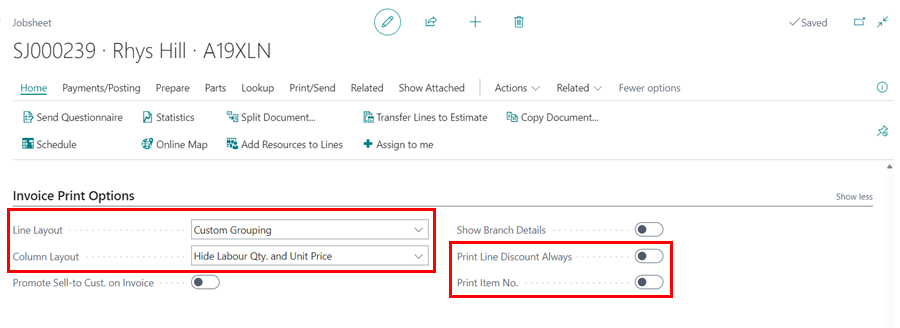
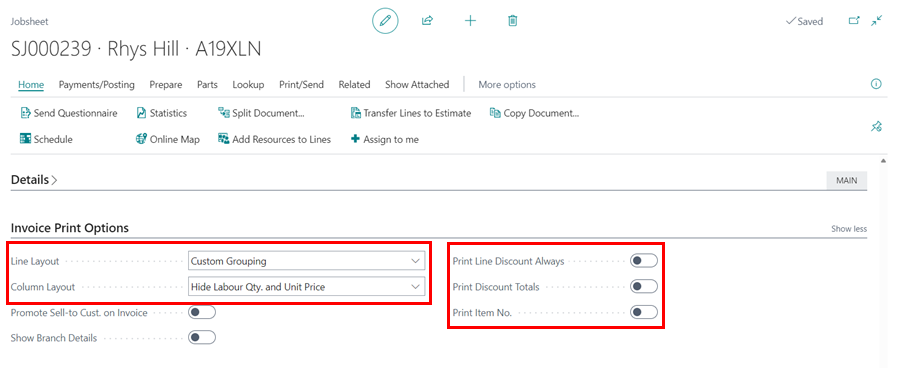
print layout options

diff --git a/docs/golive-print-invoice.md b/docs/golive-print-invoice.md
@@ -5,7 +5,7 @@ title: Go Live setup - Print Invoice (3/3)
 
 ## In this article
 1. [Print an Invoice](#print-an-invoice)
-2. [Available Line Layout Options](#line-layout-options)
+2. [Available Print Layout Options](#print-layout-options)
 
 
 ### Print an Invoice   
@@ -24,8 +24,8 @@ To print an invoice:
 
 4. Check the document for your company's logo, quality, and line layout. 
 
-### Line Layout Options
-There are 9 line layout options for the document to choose from:
+### Print Layout Options
+There are several middle section print layout options for the document to choose from:
 * Standard - Standard 
 * Standard - Hide labour Qty. and Unit Price 
 * Standard - Show Totals Only 
@@ -35,12 +35,15 @@ There are 9 line layout options for the document to choose from:
 * Custom Grouping - Standard 
 * Custom Grouping - Hide labour Qty. and Unit Price 
 * Custom Grouping - Show Totals Only
+* Print Line Discount Always
+* Print Discount Totals
+* Print Item No.
 
-To select your preferred line layout, scroll down to the **Invoice Print Options** FastTab in the document. Select the **Line Layout** and **Column Layout** options.
+To select your preferred print layout, scroll down to the **Invoice Print Options** FastTab in the document.
 
    ![](media/garagehive-go-live-print-invoice2.png)
 
-Here is an example of each **Line Layout**:
+Here is an example of each print layout:
 
 #### Standard - Standard
 
@@ -77,6 +80,18 @@ Here is an example of each **Line Layout**:
 #### Custom Grouping - Show Totals Only
 
 ![](media/garagehive-printlayout-custtotalsonly.png)
+
+#### Print Line Discount Always
+
+![](media/garagehive-printlayout-printlinediscountalways.png)
+
+#### Print Discount Totals
+
+![](media/garagehive-printlayout-printdiscounttotals.png)
+
+#### Print Item No.
+
+![](media/garagehive-printitemno.png)
 
 [<- PREVIOUS STEP 2/3](/docs/golive-sms-email.html)
 

diff --git a/docs/garagehive-document-print-options.md b/docs/garagehive-document-print-options.md
@@ -53,21 +53,21 @@ The following can be modified in the middle section of a document:
 
    ![](media/garagehive-print-options-middle-section1.png)
 
-2. For the line and column of the document, there are 9 print options available:
+2. There are several middle section print layout options for the document to choose from:
+* Standard - Standard 
+* Standard - Hide labour Qty. and Unit Price 
+* Standard - Show Totals Only 
+* Group by Line Type - Standard 
+* Group by Line Type - Hide labour Qty. and Unit Price 
+* Group by Line Type - Show Totals Only 
+* Custom Grouping - Standard 
+* Custom Grouping - Hide labour Qty. and Unit Price 
+* Custom Grouping - Show Totals Only
+* Print Line Discount Always
+* Print Discount Totals
+* Print Item No.
 
-   | Line Layout        | Column Layout                   |
-   | :----------------- | :------------------------------ |
-   | Standard           | Standard                        |
-   | Standard           | Hide labour Qty. and Unit Price |
-   | Standard           | Show Totals Only                |
-   | Group by Line Type | Standard                        |
-   | Group by Line Type | Hide labour Qty. and Unit Price |
-   | Group by Line Type | Show Totals Only                |
-   | Custom Grouping    | Standard                        |
-   | Custom Grouping    | Hide labour Qty. and Unit Price |
-   | Custom Grouping    | Show Totals Only                |
-
-3. To learn more about the invoice print options, and see how they appear follow this link, [Invoice Print Options available](/docs/golive-print-invoice.html#line-layout-options).
+1. To learn more about the invoice print options, and see how they appear follow this link, [Invoice Print Options available](/docs/golive-print-invoice.html#line-layout-options).
 
 
 [Go back to top](#top)
